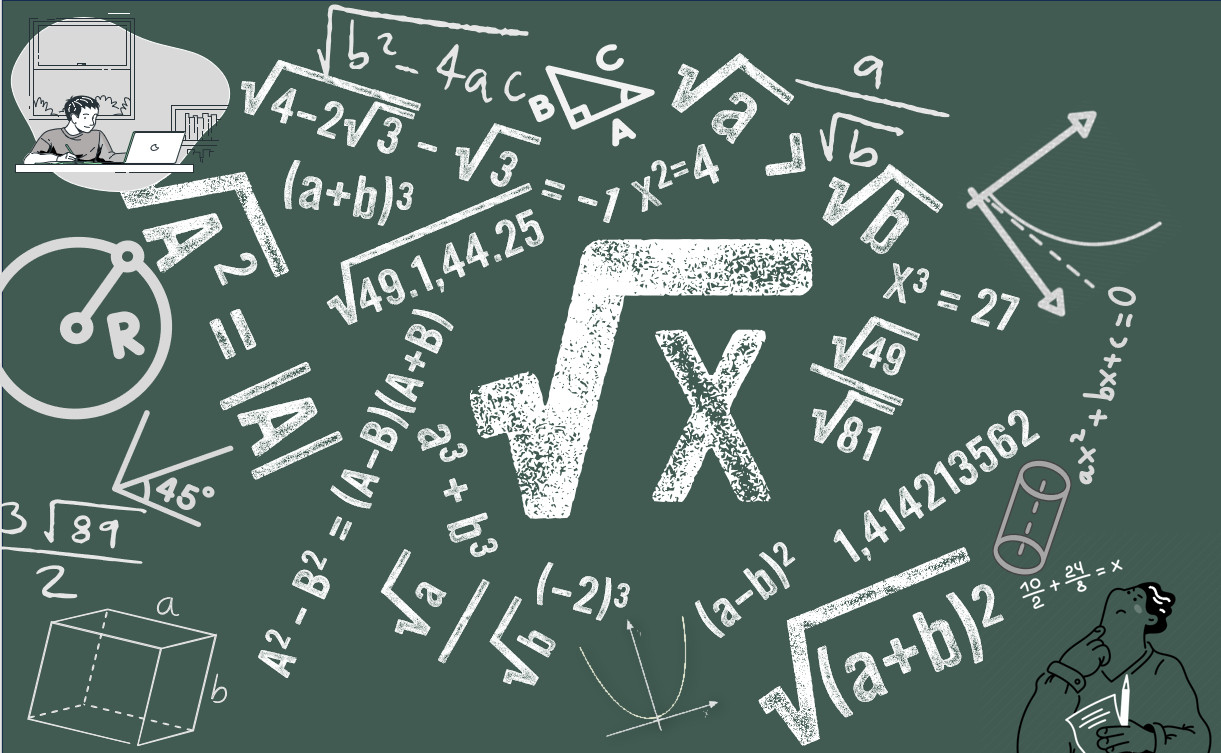
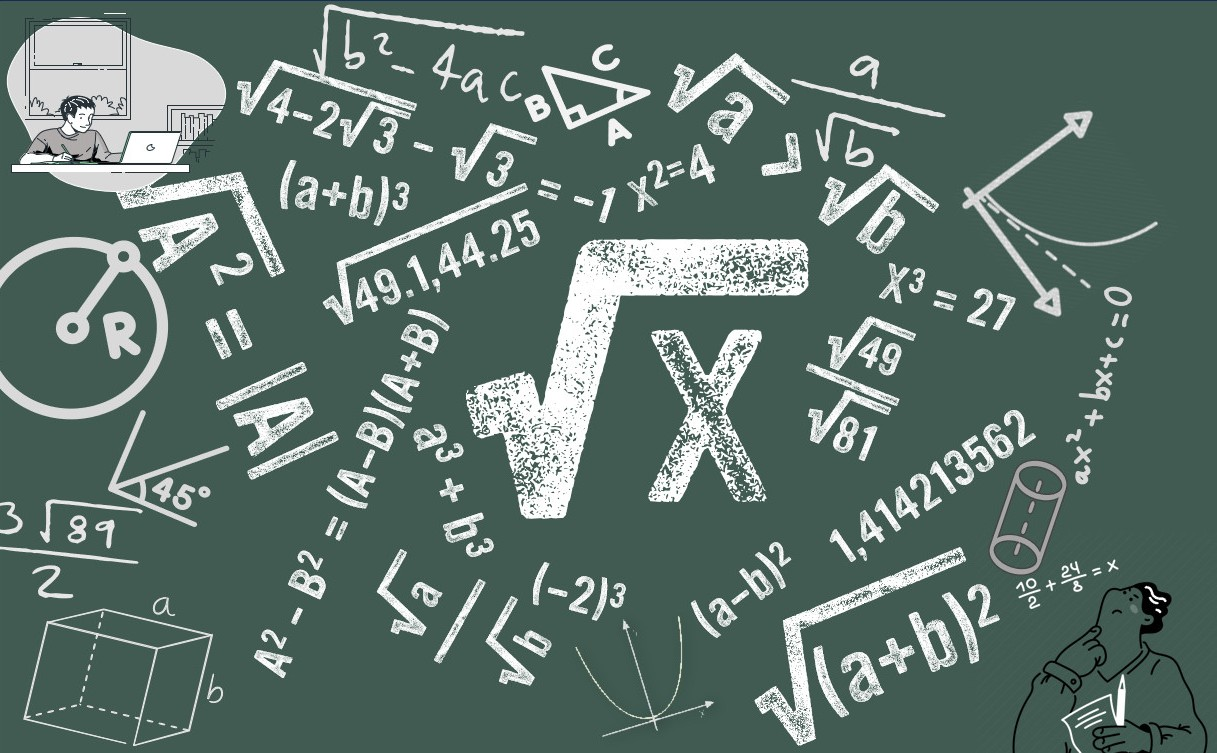
Menús materias

diff --git a/style.css b/style.css
@@ -91,7 +91,7 @@ body > #header {
 }
 #subjectMat{
     background-image: url(src/other/matemáticasA.jpg);
-    background-position-y: center;
+    background-position: center;
 }
 #subjectLogi{
     background-image: url(src/other/filosofíaC.jpg);
@@ -106,6 +106,48 @@ footer{
     background-color: var(--SecondaryColor);
     text-align: end;
     color: rgba(0, 0, 0, 0.548);
+}
+
+/* Unidades*/
+
+#unidad1>p{    
+    background-color: rgb(211, 163, 206);
+}
+#unidad2>p{ 
+    background-color: rgb(202, 154, 154);
+}
+a:has(#unidad1){
+    display: flex;
+}
+a:has(#unidad2){
+    display: flex;
+    background-position: right;
+}
+#español a:has(#unidad1){
+    background-image: url(/src/other/español.png);
+    display: flex;
+}
+#español a:has(#unidad2){
+    background-image: url(/src/other/español.png);
+}
+#matematicas a:has(#unidad1){
+    background-image: url(/src/other/matemáticasA.jpg);
+    display: flex;
+}
+#matematicas a:has(#unidad2){
+    background-image: url(/src/other/matemáticasA.jpg);
+}
+#logica a:has(#unidad1){
+    background-image: url(/src/other/filosofíaC.jpg);
+}
+#logica a:has(#unidad2){
+    background-image: url(/src/other/filosofía.jpg);
+}
+#hl a:has(#unidad1){
+    background-image: url(/src/other/historiaLengua.gif);
+}
+#hl a:has(#unidad2){
+    background-image: url(/src/other/historiaLengua.gif);    
 }
 
 /* Full Screen*/
@@ -130,7 +172,7 @@ footer{
     main{
         display: grid;
         grid-template-columns: 50% 50%;
-        grid-template-rows: auto auto;
+        grid-template-rows: auto;
         height: 90vh;
     }
     a:has(.bttnSubject){

diff --git a/index.html b/index.html
@@ -18,10 +18,10 @@
         </ul>
     </header>
     <main>
-        <a href=""><div class="bttnSubject" id="subjectEsp"><p>ESPAÑOL</p></div></a>
-        <a href=""><div class="bttnSubject" id="subjectHL" ><p>HISTORIA DE LA LENGUA</p></div></a>
-        <a href=""><div class="bttnSubject" id="subjectMat"><p>MATEMÁTICAS</p></div></a>
-        <a href=""><div class="bttnSubject" id="subjectLogi"><p>LÓGICA</p></div></a>
+        <a href="/contenidos/españolPortada.html"><div class="bttnSubject" id="subjectEsp"><p>ESPAÑOL</p></div></a>
+        <a href="/contenidos/historiaDeLaLenguaPortada.html"><div class="bttnSubject" id="subjectHL" ><p>HISTORIA DE LA LENGUA</p></div></a>
+        <a href="/contenidos/matematicasPortada.html"><div class="bttnSubject" id="subjectMat"><p>MATEMÁTICAS</p></div></a>
+        <a href="/contenidos/LogicaPortada.html"><div class="bttnSubject" id="subjectLogi"><p>LÓGICA</p></div></a>
     </main>
     <footer>
         UDG+ || Proyecto II || Angel Humberto Rosario Acero

diff --git a/contenidos/historiaDeLaLenguaPortada.html b/contenidos/historiaDeLaLenguaPortada.html
@@ -1,0 +1,28 @@
+<!DOCTYPE html>
+<html lang="en">
+<head>
+    <meta charset="UTF-8">
+    <meta name="viewport" content="width=device-width, initial-scale=1.0">
+    <title>Bases Escolares</title>
+    <link rel="stylesheet" href="/style.css">
+</head>
+<body id="hl">
+    <header id="header">
+        <p>HISTORIA DE LA LENGUA</p>
+        <input type="checkbox" value="menu" id="bttnMenu">     
+        <label for="bttnMenu">≡</label>
+        <ul>
+            <li><a href="/index.html">Volver</a></li>
+        </ul>
+    </header>
+    <main>
+        <a href=""><div class="bttnSubject" id="unidad1"><p>PRIMERO</p></div></a>
+        <a href=""><div class="bttnSubject" id="unidad2" ><p>SEGUNDO</p></div></a>
+    </main>
+    <footer>
+        UDG+ || Proyecto II || Angel Humberto Rosario Acero
+    </footer>
+
+    
+</body>
+</html>

diff --git a/contenidos/matematicasPortada.html b/contenidos/matematicasPortada.html
@@ -1,0 +1,28 @@
+<!DOCTYPE html>
+<html lang="en">
+<head>
+    <meta charset="UTF-8">
+    <meta name="viewport" content="width=device-width, initial-scale=1.0">
+    <title>Bases Escolares</title>
+    <link rel="stylesheet" href="/style.css">
+</head>
+<body id="matematicas">
+    <header id="header">
+        <p>MATEMÁTICAS</p>
+        <input type="checkbox" value="menu" id="bttnMenu">     
+        <label for="bttnMenu">≡</label>
+        <ul>
+            <li><a href="/index.html">Volver</a></li>
+        </ul>
+    </header>
+    <main>
+        <a href=""><div class="bttnSubject" id="unidad1"><p>PRIMERO</p></div></a>
+        <a href=""><div class="bttnSubject" id="unidad2" ><p>SEGUNDO</p></div></a>
+    </main>
+    <footer>
+        UDG+ || Proyecto II || Angel Humberto Rosario Acero
+    </footer>
+
+    
+</body>
+</html>

diff --git a/contenidos/españolPortada.html b/contenidos/españolPortada.html
@@ -1,0 +1,28 @@
+<!DOCTYPE html>
+<html lang="en">
+<head>
+    <meta charset="UTF-8">
+    <meta name="viewport" content="width=device-width, initial-scale=1.0">
+    <title>Bases Escolares</title>
+    <link rel="stylesheet" href="/style.css">
+</head>
+<body id="español">
+    <header id="header">
+        <p>ESPAÑOL</p>
+        <input type="checkbox" value="menu" id="bttnMenu">     
+        <label for="bttnMenu">≡</label>
+        <ul>
+            <li><a href="/index.html">Volver</a></li>
+        </ul>
+    </header>
+    <main>
+        <a href=""><div class="bttnSubject" id="unidad1"><p>PRIMERO</p></div></a>
+        <a href=""><div class="bttnSubject" id="unidad2" ><p>SEGUNDO</p></div></a>
+    </main>
+    <footer>
+        UDG+ || Proyecto II || Angel Humberto Rosario Acero
+    </footer>
+
+    
+</body>
+</html>

diff --git a/contenidos/LogicaPortada.html b/contenidos/LogicaPortada.html
@@ -1,0 +1,28 @@
+<!DOCTYPE html>
+<html lang="en">
+<head>
+    <meta charset="UTF-8">
+    <meta name="viewport" content="width=device-width, initial-scale=1.0">
+    <title>Bases Escolares</title>
+    <link rel="stylesheet" href="/style.css">
+</head>
+<body id="logica">
+    <header id="header">
+        <p>LÓGICA</p>
+        <input type="checkbox" value="menu" id="bttnMenu">     
+        <label for="bttnMenu">≡</label>
+        <ul>
+            <li><a href="/index.html">Volver</a></li>
+        </ul>
+    </header>
+    <main>
+        <a href=""><div class="bttnSubject" id="unidad1"><p>PRIMERO</p></div></a>
+        <a href=""><div class="bttnSubject" id="unidad2" ><p>SEGUNDO</p></div></a>
+    </main>
+    <footer>
+        UDG+ || Proyecto II || Angel Humberto Rosario Acero
+    </footer>
+
+    
+</body>
+</html>
